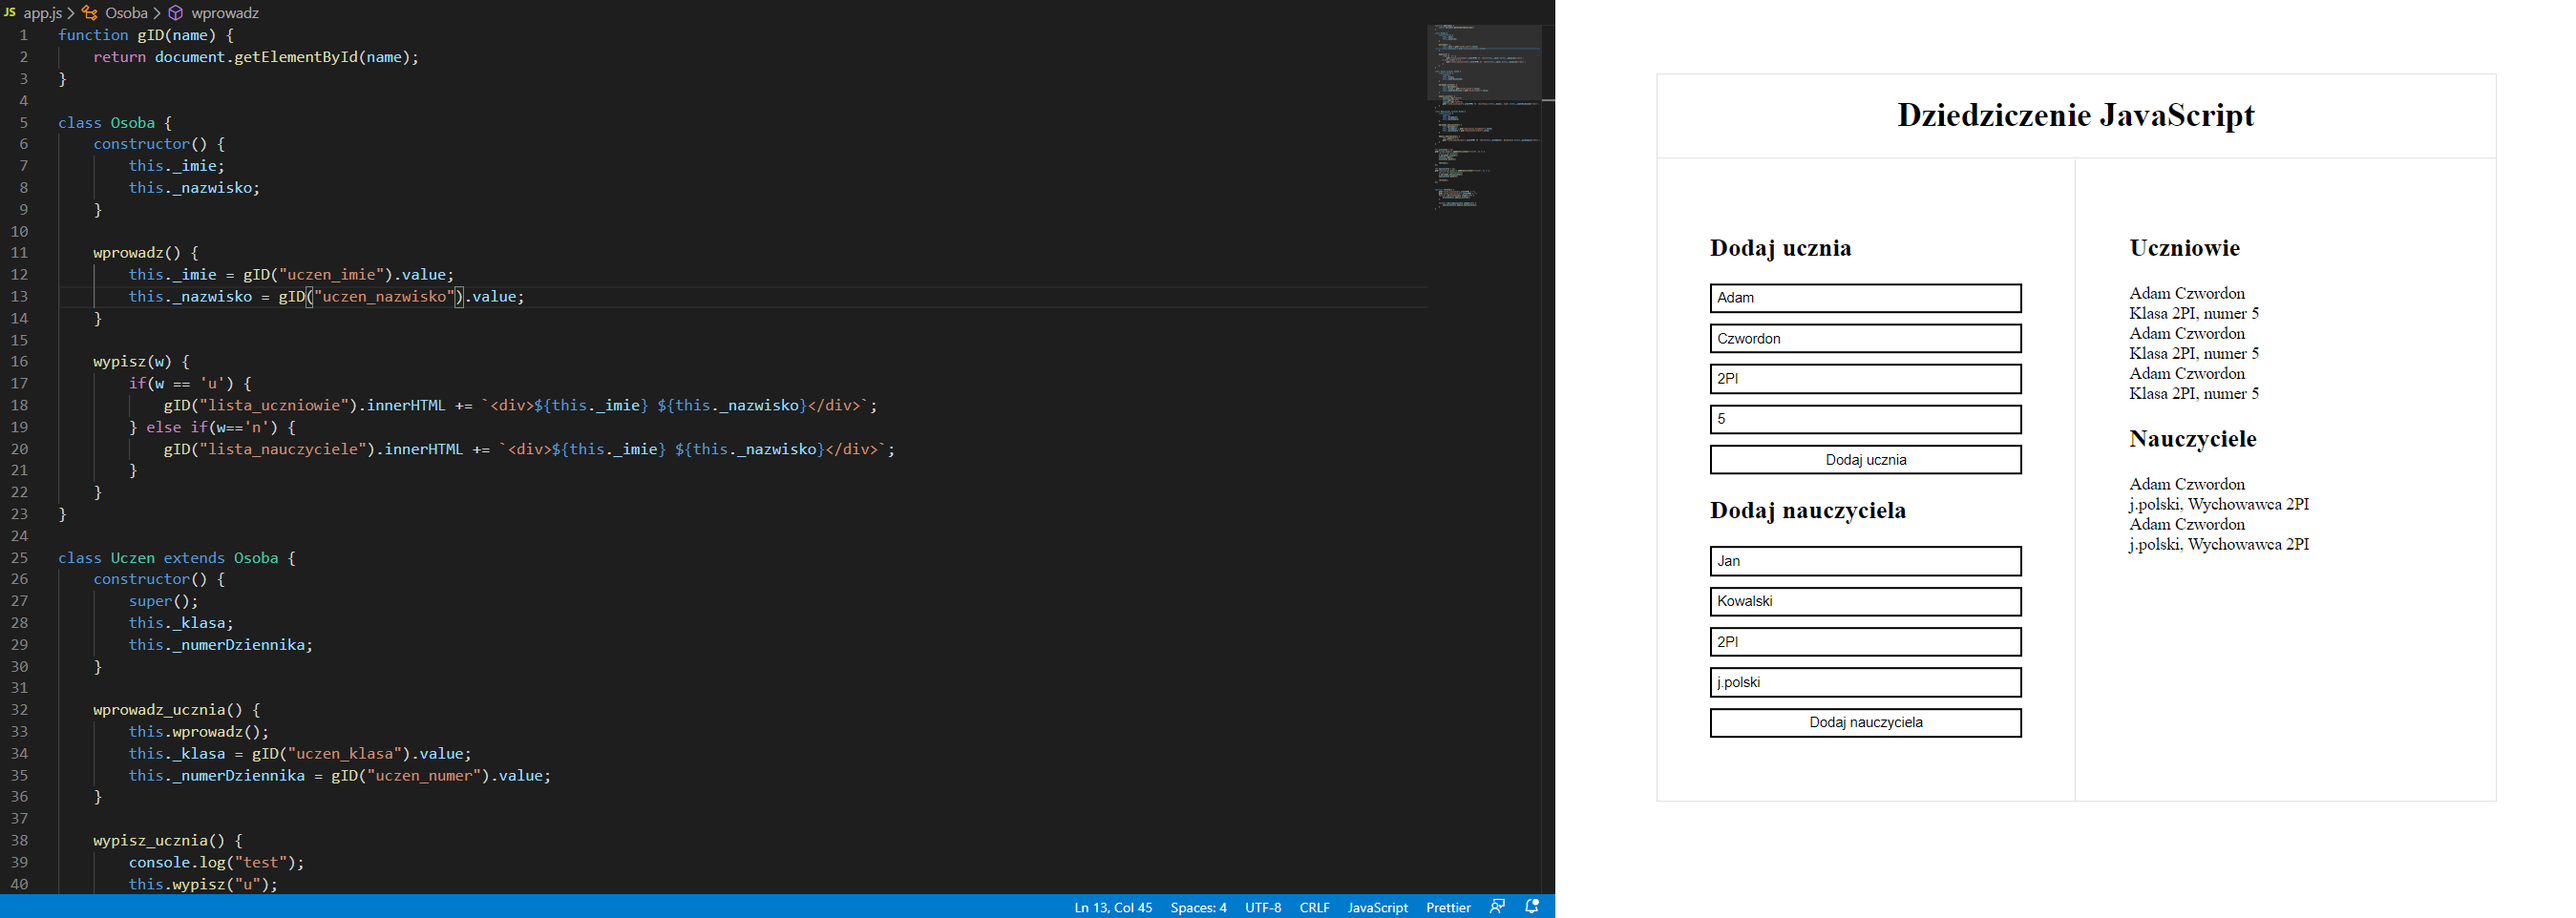
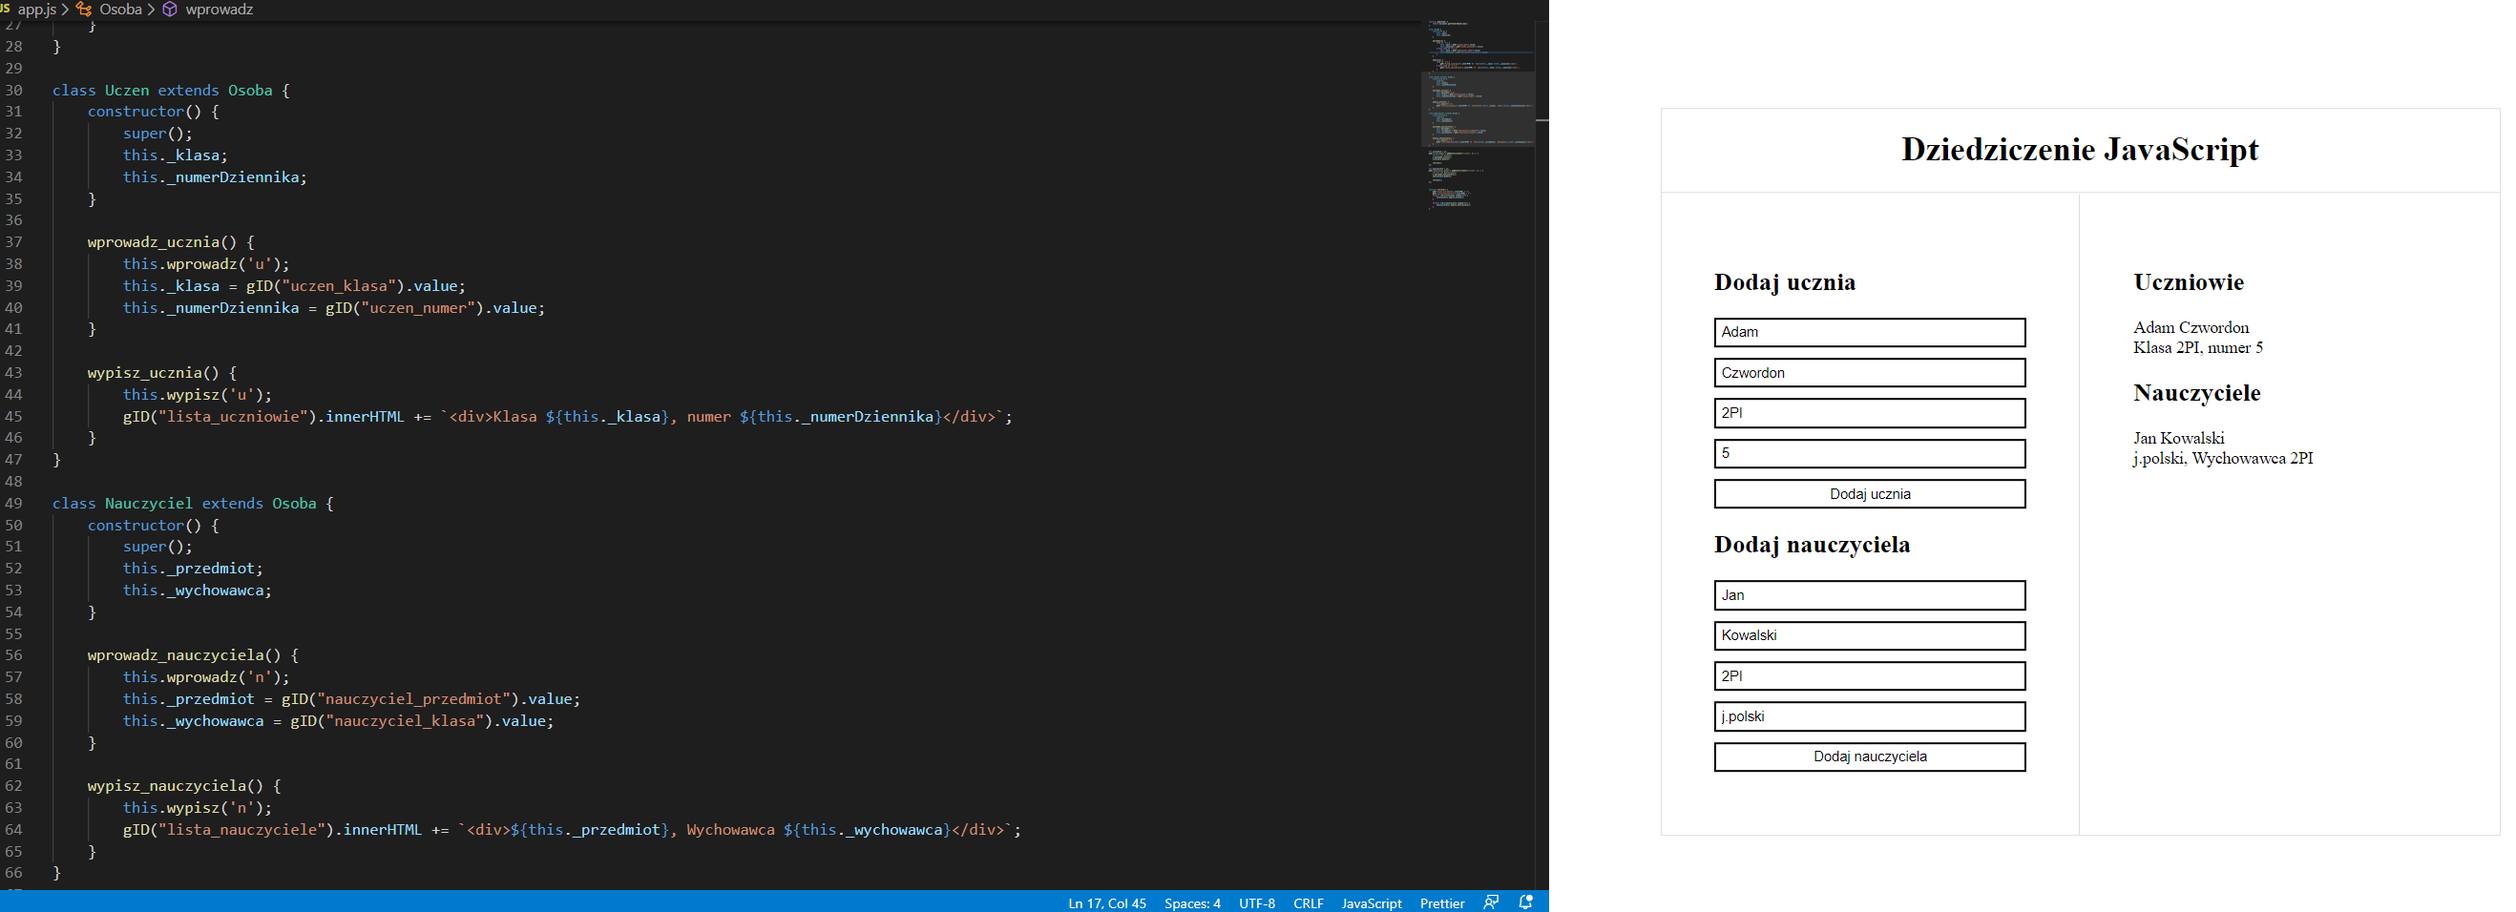
Add files via upload

diff --git a/app.js b/app.js
@@ -8,15 +8,20 @@ class Osoba {
         this._nazwisko;
     }
 
-    wprowadz() {
-        this._imie = gID("uczen_imie").value;
-        this._nazwisko = gID("uczen_nazwisko").value;
+    wprowadz(w) {
+        if(w == 'u') {
+            this._imie = gID("uczen_imie").value;
+            this._nazwisko = gID("uczen_nazwisko").value;
+        } else if(w == 'n') {
+            this._imie = gID("nauczyciel_imie").value;
+            this._nazwisko = gID("nauczyciel_nazwisko").value;
+        }
     }
 
     wypisz(w) {
         if(w == 'u') {
             gID("lista_uczniowie").innerHTML += `<div>${this._imie} ${this._nazwisko}</div>`;
-        } else if(w=='n') {
+        } else if(w == 'n') {
             gID("lista_nauczyciele").innerHTML += `<div>${this._imie} ${this._nazwisko}</div>`;
         }
     }
@@ -30,15 +35,13 @@ class Uczen extends Osoba {
     }
 
     wprowadz_ucznia() {
-        this.wprowadz();
+        this.wprowadz('u');
         this._klasa = gID("uczen_klasa").value;
         this._numerDziennika = gID("uczen_numer").value;
     }
 
     wypisz_ucznia() {
-        console.log("test");
-        this.wypisz("u");
-        console.log("test2");
+        this.wypisz('u');
         gID("lista_uczniowie").innerHTML += `<div>Klasa ${this._klasa}, numer ${this._numerDziennika}</div>`;
     }
 }
@@ -51,13 +54,13 @@ class Nauczyciel extends Osoba {
     }
 
     wprowadz_nauczyciela() {
-        this.wprowadz();
+        this.wprowadz('n');
         this._przedmiot = gID("nauczyciel_przedmiot").value;
         this._wychowawca = gID("nauczyciel_klasa").value;
     }
 
     wypisz_nauczyciela() {
-        this.wypisz("n");
+        this.wypisz('n');
         gID("lista_nauczyciele").innerHTML += `<div>${this._przedmiot}, Wychowawca ${this._wychowawca}</div>`;
     }
 }
@@ -67,7 +70,6 @@ let uczniowie = [];
 gID("uczen_dodaj").addEventListener("click", () => {
     let u = new Uczen();
     u.wprowadz_ucznia();
-    console.log(u);
     uczniowie.push(u);
 
     refresh();
